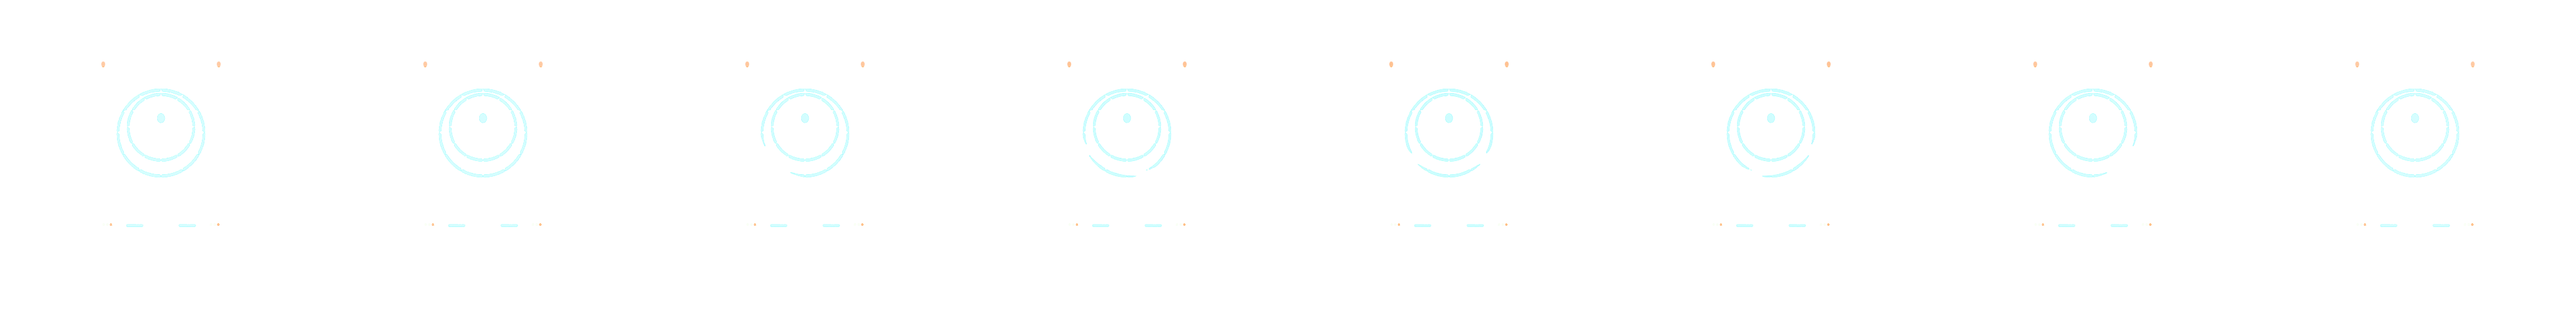
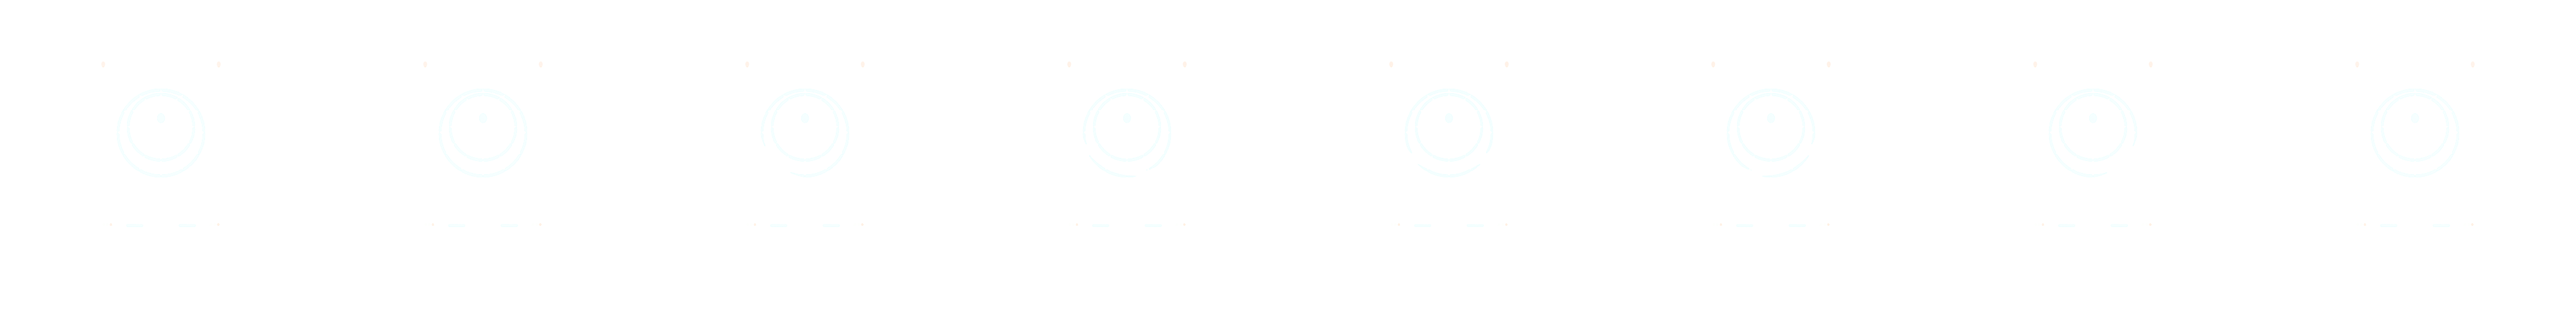
Calibrate activity glow to retain process colors

diff --git a/scripts/pack_blender_assets.py b/scripts/pack_blender_assets.py
@@ -168,14 +168,15 @@ def additive(canvas: Image.Image, glow: Image.Image) -> Image.Image:
 def prepare_pass(frame: Image.Image, layer: str) -> Image.Image:
     if layer == "glow":
         # Blender's emission-only scene keeps black occluders. Make them fully
-        # transparent and unpremultiply color to preserve RGB * alpha exactly.
+        # transparent and unpremultiply color to preserve chroma before calibrating the additive layer to 22%.
         r, g, b, original_alpha = frame.split()
         intensity = ImageChops.lighter(ImageChops.lighter(r, g), b)
         divisor = intensity.point(lambda value: max(1, value))
         channels = [ImageMath.lambda_eval(
             lambda args: args["convert"](args["channel"] * 255 / args["divisor"], "L"),
             channel=channel, divisor=divisor) for channel in (r, g, b)]
-        return Image.merge("RGBA", (*channels, ImageChops.multiply(original_alpha, intensity)))
+        alpha = ImageChops.multiply(original_alpha, intensity).point(lambda value: round(value * .22))
+        return Image.merge("RGBA", (*channels, alpha))
     if layer == "shadow":
         frame = frame.copy()
         frame.putalpha(frame.getchannel("A").point(lambda value: round(value * .32)))

diff --git a/docs/ART.md b/docs/ART.md
@@ -57,7 +57,8 @@ recenters, or resizes machine frames. The camera origin, scale, shift, and layer
 registration therefore remain consistent throughout the animation. Emission
 comes from the model's luminous surfaces; it is not a blurred silhouette of the
 whole machine. Black emission-pass occluders become transparent; unpremultiplying
-the color channels preserves their additive contribution. Shadow opacity is
+the color channels preserves their chroma. The additive contribution is scaled
+to 22% so process colors retain detail instead of clipping to white. Shadow opacity is
 reduced to 32% for in-game use. Neither operation changes any pixel's position.
 The engine receives shadows through `draw_as_shadow` and emission through an
 additive glow layer.
